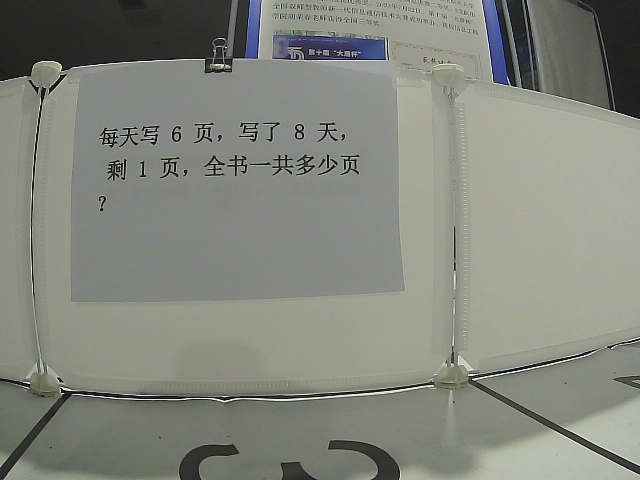
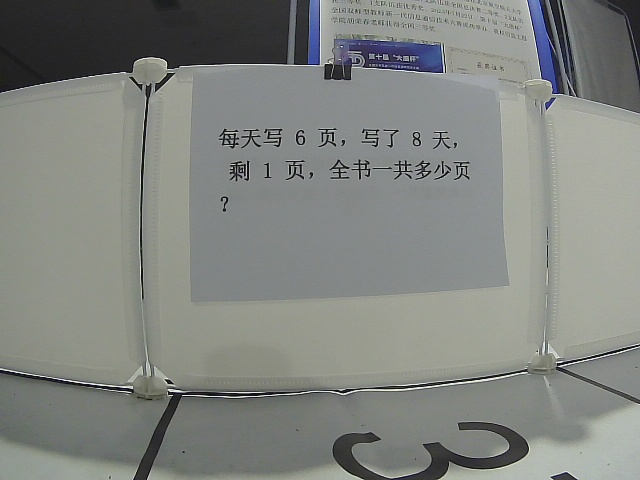
完美解决终点问题，但是还没有解决每一个都需要退出的问题

diff --git a/src/robot_slam/scripts/main.py b/src/robot_slam/scripts/main.py
@@ -121,6 +121,13 @@ class navigation_demo:
         # 11. 调试/比赛固定任务点：跳过前置视觉扫描，直接进入任务点泊车
         self.use_fixed_task_positions = rospy.get_param("~use_fixed_task_positions", False)
         self.fixed_task_ids = rospy.get_param("~fixed_task_ids", "")
+        self.final_nav_timeout = rospy.get_param("~final_nav_timeout", 10.0)
+        self.final_yaw_align_timeout = rospy.get_param("~final_yaw_align_timeout", 3.0)
+        self.final_yaw_tolerance = rospy.get_param("~final_yaw_tolerance", 0.05)
+        self.final_yaw_kp = rospy.get_param("~final_yaw_kp", 1.2)
+        self.final_yaw_min_vel = rospy.get_param("~final_yaw_min_vel", 0.08)
+        self.final_yaw_max_vel = rospy.get_param("~final_yaw_max_vel", 0.45)
+        self.final_yaw_stable_count = int(rospy.get_param("~final_yaw_stable_count", 3))
     
     def scan_callback(self, msg):
         """存储最新的激光雷达数据"""
@@ -349,6 +356,51 @@ class navigation_demo:
                 self.stop_movement()
                 rospy.logwarn("检测点yaw闭环超时: err=%.3frad" % yaw_error)
                 rospy.sleep(self.detect_photo_settle_time)
+                return False
+
+            rate.sleep()
+
+        self.stop_movement()
+        return False
+
+    def align_final_yaw(self, yaw_deg):
+        """终点贴边前先对齐终点 yaw，避免按错误车体方向做激光校准。"""
+        if not self.wait_for_odom_yaw(timeout=1.0):
+            rospy.logwarn("未收到里程计yaw，跳过终点yaw闭环")
+            return False
+
+        target_yaw = yaw_deg / 180.0 * pi
+        self.target_yaw = target_yaw
+        start_time = rospy.Time.now()
+        rate = rospy.Rate(10)
+        stable_count = 0
+
+        rospy.loginfo("[FINAL][YAW_ALIGN][START] target=%.1fdeg tolerance=%.3frad",
+                      yaw_deg, self.final_yaw_tolerance)
+        while not rospy.is_shutdown():
+            yaw_error = self.normalize_angle(target_yaw - self.current_yaw)
+            if abs(yaw_error) <= self.final_yaw_tolerance:
+                stable_count += 1
+                self.stop_movement()
+                if stable_count >= self.final_yaw_stable_count:
+                    rospy.loginfo("[FINAL][YAW_ALIGN][OK] err=%.3frad", yaw_error)
+                    return True
+            else:
+                stable_count = 0
+                cmd = Twist()
+                omega = self.clamp(
+                    self.final_yaw_kp * yaw_error,
+                    -self.final_yaw_max_vel,
+                    self.final_yaw_max_vel
+                )
+                if abs(omega) < self.final_yaw_min_vel:
+                    omega = self.final_yaw_min_vel if omega >= 0 else -self.final_yaw_min_vel
+                cmd.angular.z = omega
+                self.pub.publish(cmd)
+
+            if (rospy.Time.now() - start_time).to_sec() > self.final_yaw_align_timeout:
+                self.stop_movement()
+                rospy.logwarn("[FINAL][YAW_ALIGN][TIMEOUT] err=%.3frad", yaw_error)
                 return False
 
             rate.sleep()
@@ -791,8 +843,13 @@ class navigation_demo:
         # 按线索导航
         self.go_to_task_positions()
 
-        # 导航到终点
-        self.goto(goals[16])
+        # 终点只让 move_base 粗到位，最后贴边交给激光闭环校准
+        final_nav_start = rospy.Time.now()
+        final_nav_ok = self.goto(goals[16], timeout=self.final_nav_timeout)
+        rospy.loginfo("[FINAL][NAV_TO_FINAL] dt=%.2fs ok=%s timeout=%.1fs",
+                      (rospy.Time.now() - final_nav_start).to_sec(),
+                      str(final_nav_ok), self.final_nav_timeout)
+        self.align_final_yaw(goals[16][2])
         self.adjust_position(side_target=0.220, back_target=0.240)  
         # 语音播报到达终点
         tts_text = u"已到达终点"